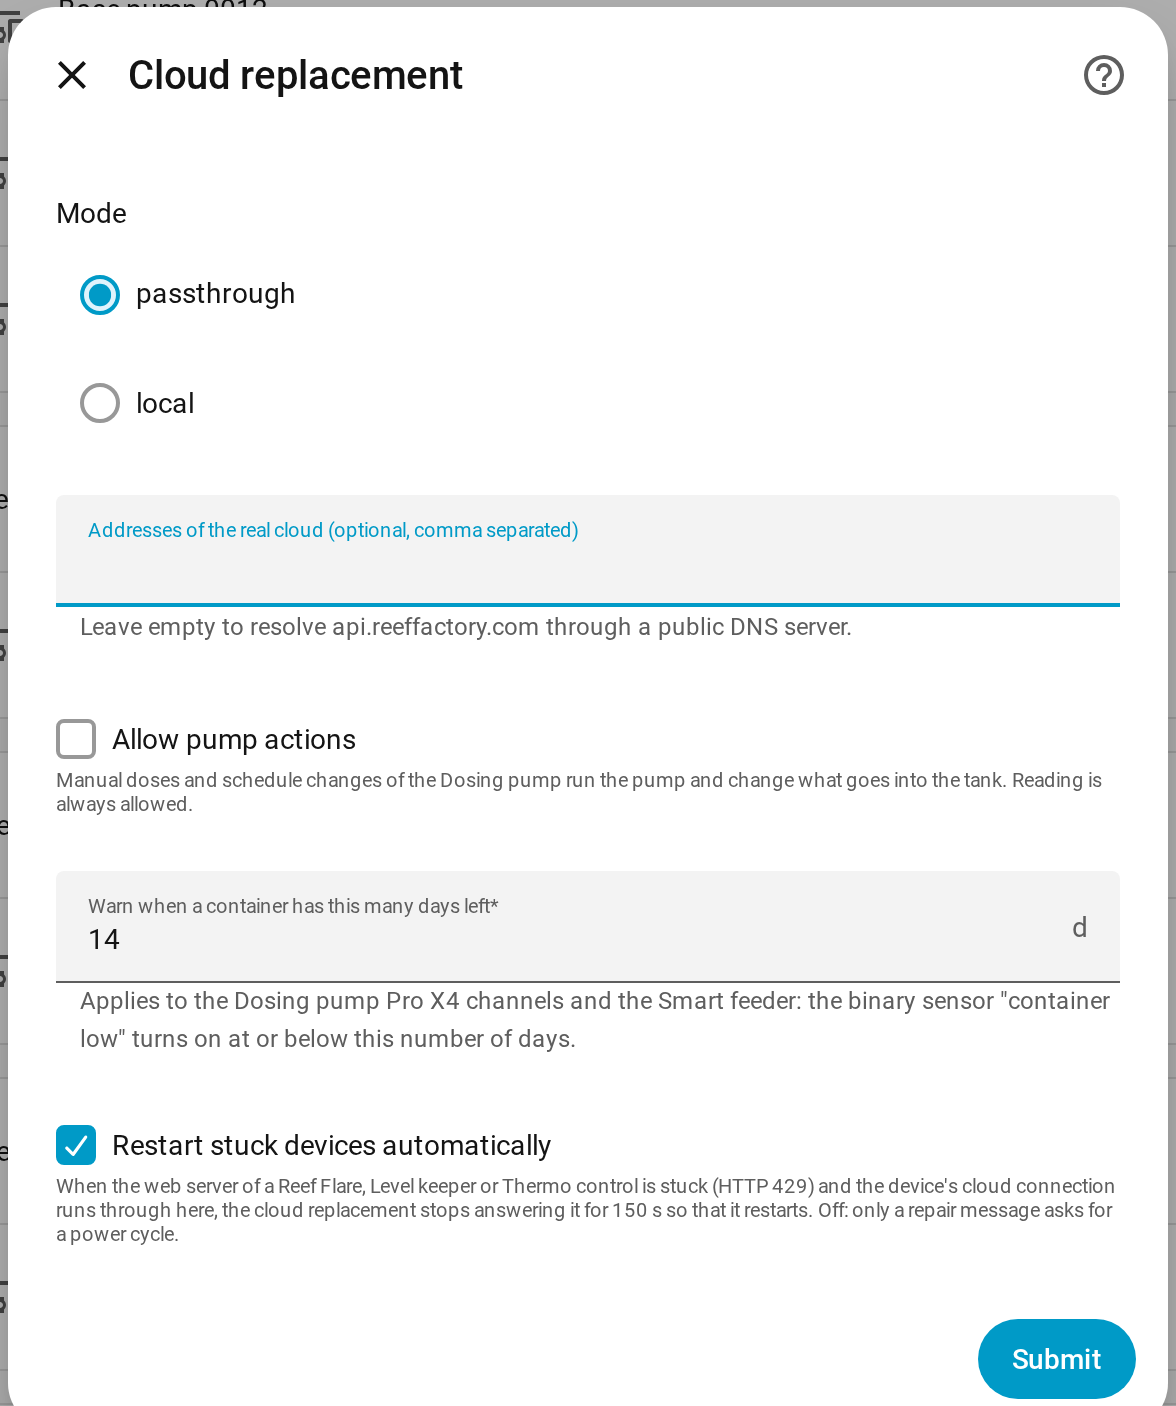
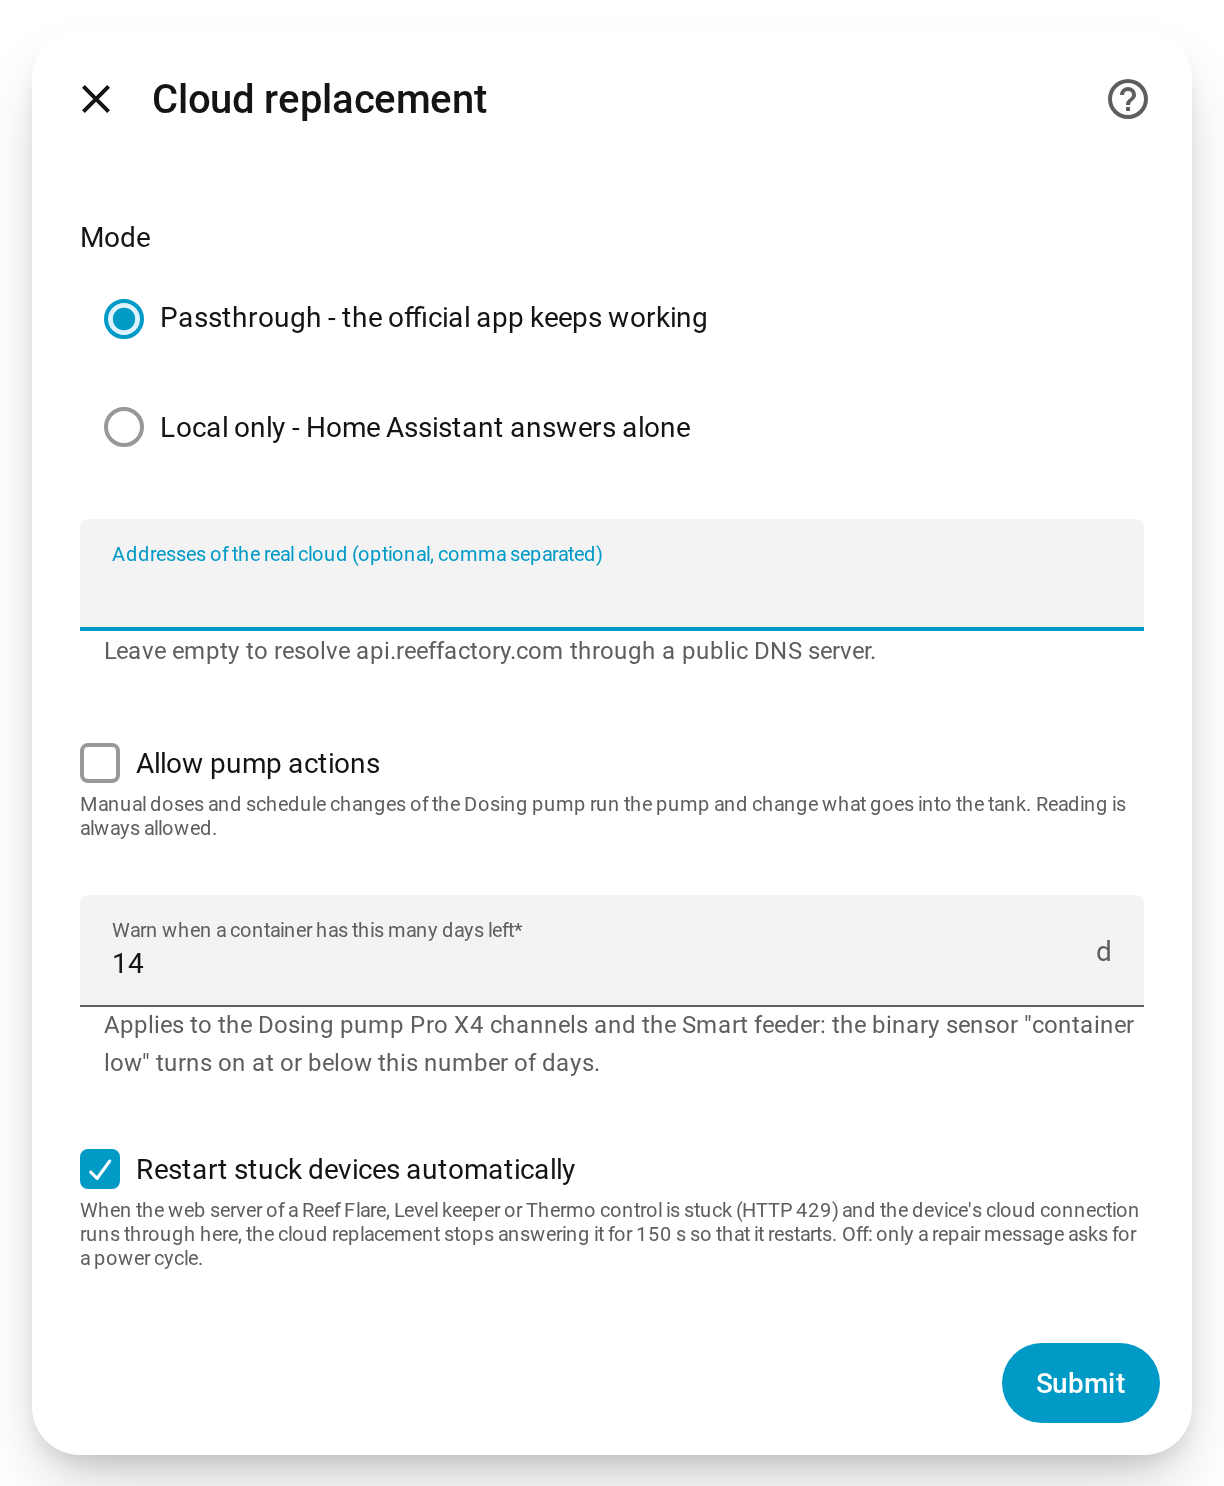
1.4.0: unknown Reef Factory devices read only, cloud modes as a translated list, README with diagram, dashboard and questions

diff --git a/custom_components/reef_factory_local/config_flow.py b/custom_components/reef_factory_local/config_flow.py
@@ -10,7 +10,10 @@ from homeassistant.config_entries import ConfigEntry, ConfigFlow, ConfigFlowResu
 from homeassistant.const import CONF_HOST
 from homeassistant.core import callback
 from homeassistant.helpers.aiohttp_client import async_get_clientsession
-from homeassistant.helpers.selector import NumberSelector, NumberSelectorConfig, NumberSelectorMode
+from homeassistant.helpers.selector import (
+    NumberSelector, NumberSelectorConfig, NumberSelectorMode,
+    SelectSelector, SelectSelectorConfig, SelectSelectorMode,
+)
 
 from . import protocol as pr
 from .client import async_probe
@@ -20,6 +23,10 @@ from .const import (
     CONF_UPSTREAM_IPS,
     DEFAULT_LOW_DAYS, DOMAIN,
 )
+
+
+MODE_SELECTOR = SelectSelector(SelectSelectorConfig(
+    options=[MODE_PASSTHROUGH, MODE_LOCAL], translation_key="cloud_mode", mode=SelectSelectorMode.LIST))
 
 
 class ReefFactoryLocalConfigFlow(ConfigFlow, domain=DOMAIN):
@@ -45,8 +52,7 @@ class ReefFactoryLocalConfigFlow(ConfigFlow, domain=DOMAIN):
         return self.async_show_form(
             step_id="cloud",
             data_schema=vol.Schema({
-                vol.Required(CONF_CLOUD_MODE, default=MODE_PASSTHROUGH): vol.In({
-                    MODE_PASSTHROUGH: "passthrough", MODE_LOCAL: "local"}),
+                vol.Required(CONF_CLOUD_MODE, default=MODE_PASSTHROUGH): MODE_SELECTOR,
             }),
         )
 
@@ -134,8 +140,7 @@ class ReefOptionsFlow(OptionsFlow):
         return self.async_show_form(
             step_id="cloud",
             data_schema=vol.Schema({
-                vol.Required(CONF_CLOUD_MODE, default=opts.get(CONF_CLOUD_MODE, MODE_PASSTHROUGH)): vol.In({
-                    MODE_PASSTHROUGH: "passthrough", MODE_LOCAL: "local"}),
+                vol.Required(CONF_CLOUD_MODE, default=opts.get(CONF_CLOUD_MODE, MODE_PASSTHROUGH)): MODE_SELECTOR,
                 vol.Optional(CONF_UPSTREAM_IPS, default=opts.get(CONF_UPSTREAM_IPS, "")): str,
                 vol.Required(CONF_ALLOW_PUMP_ACTIONS, default=opts.get(CONF_ALLOW_PUMP_ACTIONS, False)): bool,
                 vol.Required(CONF_LOW_DAYS, default=opts.get(CONF_LOW_DAYS, DEFAULT_LOW_DAYS)): NumberSelector(

diff --git a/README.md b/README.md
@@ -1,6 +1,6 @@
-# Reef Factory Local (unofficial)
+<h1><img src="https://raw.githubusercontent.com/patrickk88/reef-factory-local/main/custom_components/reef_factory_local/brand/icon.png" width="48" align="top" alt=""> Reef Factory Local (unofficial)</h1>
 
-[![HACS: custom repository](https://img.shields.io/badge/HACS-Custom-41BDF5.svg)](https://hacs.xyz)
+[![HACS: default repository](https://img.shields.io/badge/HACS-Default-41BDF5.svg)](https://hacs.xyz)
 [![Release](https://img.shields.io/github/v/release/patrickk88/reef-factory-local)](https://github.com/patrickk88/reef-factory-local/releases)
 [![Home Assistant 2025.3 or newer](https://img.shields.io/badge/Home%20Assistant-2025.3%2B-18BCF2.svg)](https://www.home-assistant.io)
 [![Validate](https://github.com/patrickk88/reef-factory-local/actions/workflows/validate.yml/badge.svg)](https://github.com/patrickk88/reef-factory-local/actions/workflows/validate.yml)
@@ -19,17 +19,26 @@ integration uses. Smart feeder, Base pump and Dosing pump Pro X4 only talk to th
 Assistant takes the cloud's place (*Cloud replacement*).
 
 <p align="center">
+  <img src="https://raw.githubusercontent.com/patrickk88/reef-factory-local/main/docs/img/dashboard.png" width="820" alt="An aquarium dashboard in Home Assistant built on this integration: water temperature, auto top-off, dosing, lighting, flow and feeding at a glance">
+</p>
+<p align="center"><sub>My own aquarium dashboard, built on the entities of this integration (the EcoDrift pumps come from <a href="https://github.com/patrickk88/aquamedic-local">AquaMedic Local</a>).</sub></p>
+
+<p align="center">
+  <img src="https://raw.githubusercontent.com/patrickk88/reef-factory-local/main/docs/img/how-it-works.png" width="820" alt="How it works: devices with a local port are reached directly, cloud-only devices through the cloud replacement in Home Assistant; the manufacturer's cloud is optional">
+</p>
+
+<p align="center">
   <img src="https://raw.githubusercontent.com/patrickk88/reef-factory-local/main/docs/img/level-keeper.png" width="32%" alt="Level keeper in Home Assistant: controls and sensors">
   <img src="https://raw.githubusercontent.com/patrickk88/reef-factory-local/main/docs/img/level-keeper-calibration.png" width="32%" alt="Level keeper in Home Assistant: guided calibration">
   <img src="https://raw.githubusercontent.com/patrickk88/reef-factory-local/main/docs/img/reef-flare.png" width="32%" alt="Reef Flare S in Home Assistant: controls and sensors">
 </p>
 <p align="center"><sub>Level keeper, its guided calibration and a Reef Flare S in Home Assistant.</sub></p>
 
-**Contents:** [Supported devices](#supported-devices-v13) · [Installation](#installation) ·
-[Safety](#safety) · [Cloud replacement](#cloud-replacement) · [When something does not work](#when-something-does-not-work) ·
-[Documentation](#documentation)
+**Contents:** [Supported devices](#supported-devices) · [Installation](#installation) ·
+[Safety](#safety) · [Cloud replacement](#cloud-replacement) · [Questions](#questions) ·
+[When something does not work](#when-something-does-not-work) · [Documentation](#documentation)
 
-## Supported devices (v1.3)
+## Supported devices
 
 | Device | Serial | Connection | What you get | Tested firmware |
 |---|---|---|---|---|
@@ -158,7 +167,7 @@ The interface is available in English, German, Dutch, French, Spanish, Italian a
 
 Needs Home Assistant 2025.3 or newer.
 
-**1. Add the repository to HACS**, download *Reef Factory Local* there and restart Home Assistant:
+**1. Find *Reef Factory Local* in HACS**, download it and restart Home Assistant:
 
 [![Open your Home Assistant instance and add this repository to HACS.](https://my.home-assistant.io/badges/hacs_repository.svg)](https://my.home-assistant.io/redirect/hacs_repository/?owner=patrickk88&repository=reef-factory-local&category=integration)
 
@@ -172,9 +181,8 @@ Needs Home Assistant 2025.3 or newer.
 <details>
 <summary>Without the buttons, or without HACS</summary>
 
-The first button adds this repository to HACS in your own Home Assistant (as a custom repository,
-category *Integration*). Without the button: HACS -> menu -> *Custom repositories* ->
-`https://github.com/patrickk88/reef-factory-local`, type *Integration*. Or copy
+The first button opens this integration in HACS in your own Home Assistant. Without the button: open
+HACS and search for *Reef Factory Local* (it is in the HACS default list). Or copy
 `custom_components/reef_factory_local` into your Home Assistant `config/custom_components/` and restart.
 
 Then *Settings -> Devices & services -> Add integration -> Reef Factory Local (unofficial)*.
@@ -255,6 +263,56 @@ point to the Home Assistant host. Level keeper, Thermo control and Reef Flare ca
 their cloud connection; then the integration can restart them by itself when their web server is stuck.
 
 **[Cloud replacement: DNS, ports, security, options](https://github.com/patrickk88/reef-factory-local/blob/main/docs/cloud-replacement.md)**
+
+## Questions
+
+<details>
+<summary><b>Does the official Smart Reef app keep working?</b></summary>
+
+Yes. For the devices with a local port Home Assistant is just one more client. With the cloud
+replacement in *passthrough* mode (the default) everything is forwarded to the real cloud, so the app
+works as before, at home and on the road. Only in *local* mode the app no longer sees the devices.
+
+</details>
+
+<details>
+<summary><b>Do I still need the cloud or a Smart Reef account?</b></summary>
+
+Not for Level keeper, Thermo control, Reef Flare and Smart Roller - they are read and controlled in your
+own network. Smart feeder, Base pump and Dosing pump Pro X4 cannot talk locally; for them the cloud
+replacement plays the cloud's part, and when the real cloud cannot be reached they are served by Home
+Assistant alone.
+
+</details>
+
+<details>
+<summary><b>What happens when Home Assistant is down?</b></summary>
+
+The devices carry on by themselves: refilling, heating, light programs, feeding and dosing schedules live
+in the devices. What is missing is the control from Home Assistant and your automations. If you use the
+cloud replacement, the cloud-only devices and the app at home also cannot reach the cloud until Home
+Assistant is back - the devices reconnect by themselves.
+
+</details>
+
+<details>
+<summary><b>Can I break something with it?</b></summary>
+
+The integration only sends what was confirmed on a real device, pump actions have to be switched on
+first, and there is no factory reset and no firmware change. But it does control pumps, a heater and
+lights - a wrong automation can harm your tank. See [Safety](#safety).
+
+</details>
+
+<details>
+<summary><b>My Reef Factory device is not on the list</b></summary>
+
+It can be added read only, so that its diagnostics file shows what it sends - that is what is needed to
+support it. See [Contributing](https://github.com/patrickk88/reef-factory-local/blob/main/CONTRIBUTING.md).
+
+</details>
+
+Something else? [Open an issue](https://github.com/patrickk88/reef-factory-local/issues).
 
 ## When something does not work
 

diff --git a/CHANGELOG.md b/CHANGELOG.md
@@ -1,6 +1,6 @@
 # Changelog
 
-## 1.4.0 - unreleased
+## 1.4.0 - 2026-11-17
 - A Reef Factory device of a type that is not supported yet can be added: it answers like the others, but
   its serial prefix is unknown. It is read only - the integration only asks it for its config (serial,
   firmware; at setup also once whether it is a Smart Roller, as before), subscribes to nothing and offers no values or controls, just *Last report*. The point is the
@@ -12,6 +12,11 @@
 - For every kind of message the last ten different contents are kept with their times, so a setting changed
   in the app shows as before and after.
 - Setup: a device that does not answer like a Reef Factory device gets a clearer message.
+- Cloud replacement, setup and options: the two modes are shown as a list in the language of Home
+  Assistant instead of their internal names.
+- README: a diagram of how the local connection and the cloud replacement fit together, a dashboard
+  example, a *Questions* section, new screenshots; the HACS badge and the installation steps now say that
+  the integration is in the HACS default list.
 
 ## 1.3.4 - 2026-11-16
 - Faster reconnect: once a connection has been accepted, a later drop is retried within about five seconds
